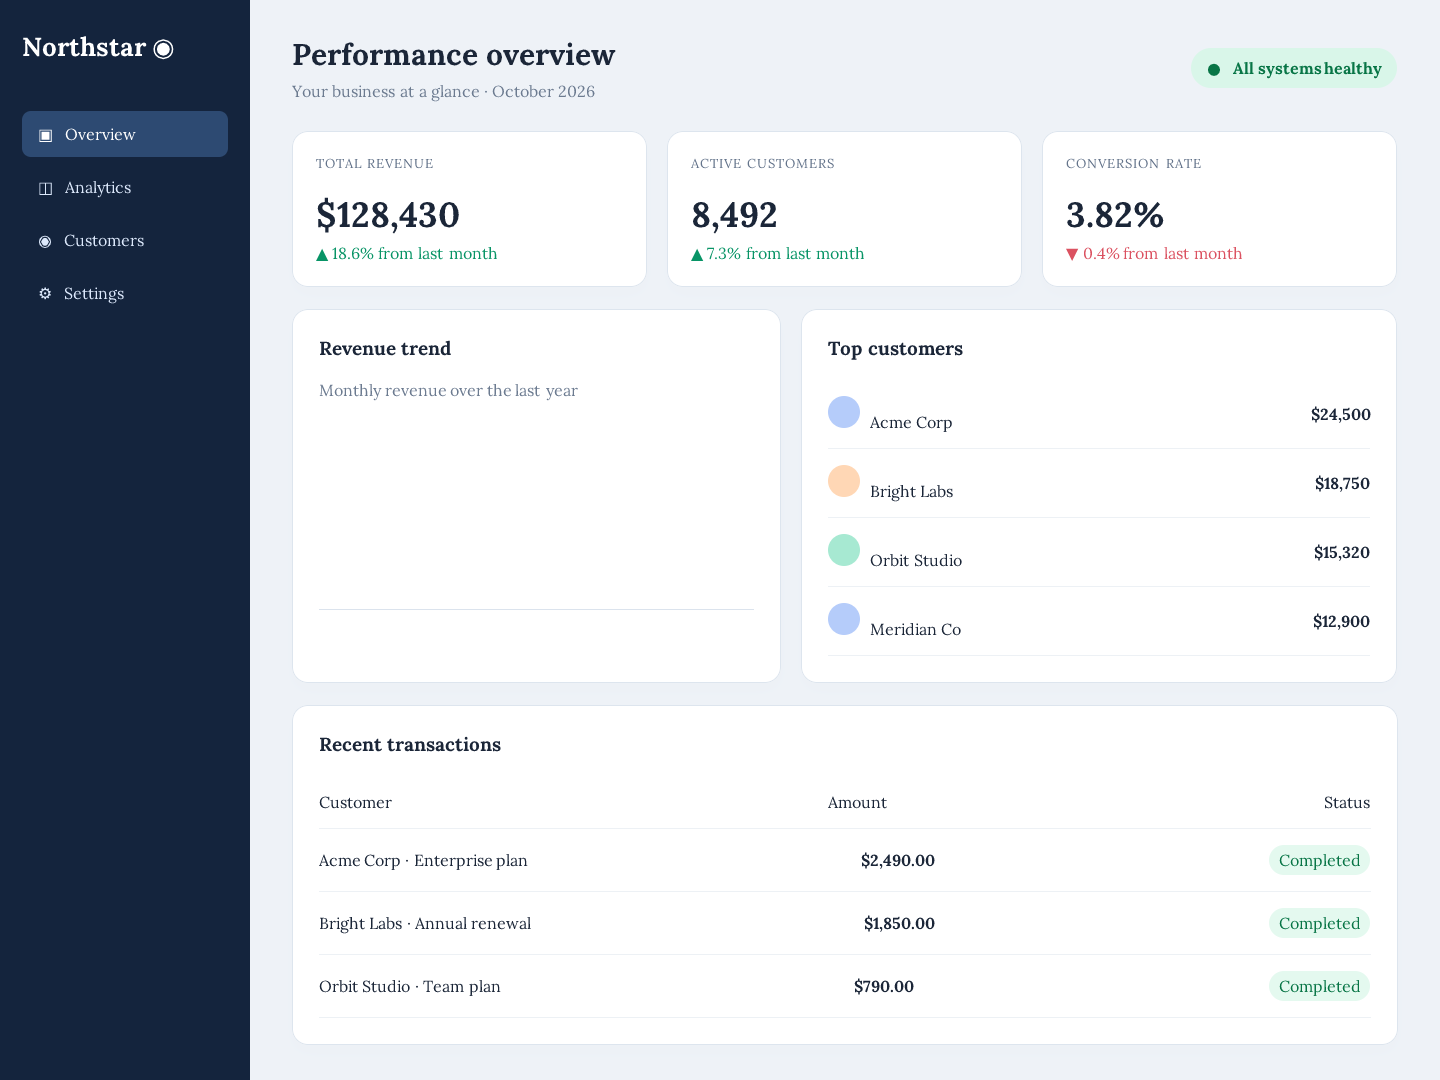
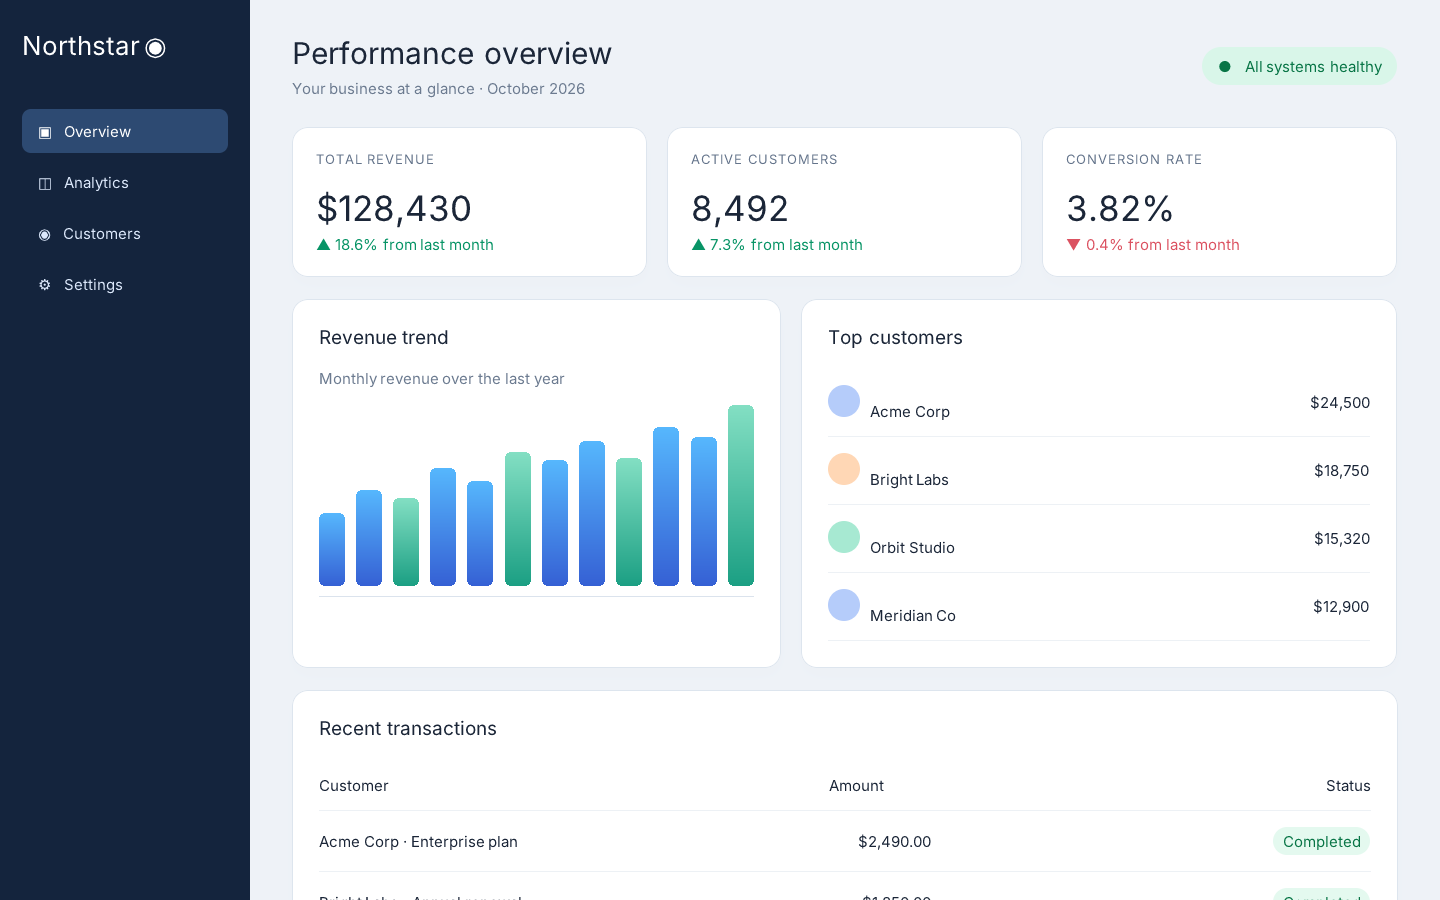
test: compare renderer POC with Chrome viewport

diff --git a/tools/renderer-poc/fixture.html b/tools/renderer-poc/fixture.html
@@ -4,38 +4,162 @@
     <meta charset="utf-8" />
     <title>Renderer POC dashboard</title>
     <style>
-      * { box-sizing: border-box; }
-      body { margin: 0; background: #eef2f7; color: #1b2638; font: 15px Arial, sans-serif; }
-      .shell { display: grid; grid-template-columns: 250px minmax(0, 1fr); min-height: 100vh; }
-      aside { background: #14243d; color: #dce8fb; padding: 30px 22px; }
-      .brand { color: white; font-size: 26px; font-weight: 700; margin-bottom: 48px; }
-      .nav { padding: 13px 16px; margin: 7px 0; border-radius: 9px; }
-      .nav.active { background: #2d4a72; color: #fff; }
-      main { padding: 35px 42px; }
-      header { display: flex; justify-content: space-between; align-items: center; margin-bottom: 30px; }
-      h1 { margin: 0 0 8px; font-size: 30px; }
-      .muted { color: #6c7b90; }
-      .badge { border-radius: 999px; background: #d9f6e9; color: #087546; padding: 10px 16px; font-weight: 700; }
-      .cards { display: grid; grid-template-columns: repeat(3, minmax(0, 1fr)); gap: 20px; }
-      .card, .panel { background: white; border: 1px solid #dde5ee; border-radius: 16px; box-shadow: 0 8px 24px #1b355314; }
-      .card { padding: 23px; min-height: 155px; }
-      .label { color: #64748b; font-size: 13px; text-transform: uppercase; letter-spacing: 1px; }
-      .number { margin: 20px 0 6px; font-size: 35px; font-weight: 700; }
-      .positive { color: #089466; }
-      .negative { color: #db5261; }
-      .columns { display: grid; grid-template-columns: minmax(0, 1.5fr) minmax(270px, 1fr); gap: 20px; margin-top: 22px; }
-      .panel { padding: 26px; }
-      h2 { margin: 0 0 20px; font-size: 19px; }
-      .chart { height: 210px; display: flex; align-items: end; gap: 11px; padding: 18px 0 0; border-bottom: 1px solid #dbe3ed; }
-      .bar { flex: 1; border-radius: 6px 6px 0 0; background: linear-gradient(180deg, #56b7fd, #3560d4); }
-      .bar:nth-child(3n) { background: linear-gradient(180deg, #83dfc3, #1b9f83); }
-      .row { display: flex; align-items: center; justify-content: space-between; border-bottom: 1px solid #edf1f5; padding: 16px 0; }
-      .avatar { display: inline-block; width: 32px; height: 32px; border-radius: 50%; background: #b5ccfa; margin-right: 10px; vertical-align: middle; }
-      .avatar.orange { background: #ffd7b5; }
-      .avatar.green { background: #a7e9d2; }
-      .table { margin-top: 22px; }
-      .table .row:first-child { color: #697b92; font-size: 12px; text-transform: uppercase; }
-      .pill { padding: 5px 10px; border-radius: 99px; background: #e4f9ef; color: #087546; }
+      * {
+        box-sizing: border-box;
+      }
+      body {
+        margin: 0;
+        background: #eef2f7;
+        color: #1b2638;
+        font-size: 15px;
+        font-family: Arial, sans-serif;
+      }
+      .shell {
+        display: grid;
+        grid-template-columns: 250px minmax(0, 1fr);
+        min-height: 100vh;
+      }
+      aside {
+        background: #14243d;
+        color: #dce8fb;
+        padding: 30px 22px;
+      }
+      .brand {
+        color: white;
+        font-size: 26px;
+        font-weight: 700;
+        margin-bottom: 48px;
+      }
+      .nav {
+        padding: 13px 16px;
+        margin: 7px 0;
+        border-radius: 9px;
+      }
+      .nav.active {
+        background: #2d4a72;
+        color: #fff;
+      }
+      main {
+        padding: 35px 42px;
+      }
+      header {
+        display: flex;
+        justify-content: space-between;
+        align-items: center;
+        margin-bottom: 30px;
+      }
+      h1 {
+        margin: 0 0 8px;
+        font-size: 30px;
+      }
+      .muted {
+        color: #6c7b90;
+      }
+      .badge {
+        border-radius: 999px;
+        background: #d9f6e9;
+        color: #087546;
+        padding: 10px 16px;
+        font-weight: 700;
+      }
+      .cards {
+        display: grid;
+        grid-template-columns: repeat(3, minmax(0, 1fr));
+        gap: 20px;
+      }
+      .card,
+      .panel {
+        background: white;
+        border: 1px solid #dde5ee;
+        border-radius: 16px;
+        box-shadow: 0 8px 24px #1b355314;
+      }
+      .card {
+        padding: 23px;
+        min-height: 155px;
+      }
+      .label {
+        color: #64748b;
+        font-size: 13px;
+        text-transform: uppercase;
+        letter-spacing: 1px;
+      }
+      .number {
+        margin: 20px 0 6px;
+        font-size: 35px;
+        font-weight: 700;
+      }
+      .positive {
+        color: #089466;
+      }
+      .negative {
+        color: #db5261;
+      }
+      .columns {
+        display: grid;
+        grid-template-columns: minmax(0, 1.5fr) minmax(270px, 1fr);
+        gap: 20px;
+        margin-top: 22px;
+      }
+      .panel {
+        padding: 26px;
+      }
+      h2 {
+        margin: 0 0 20px;
+        font-size: 19px;
+      }
+      .chart {
+        height: 210px;
+        display: flex;
+        align-items: end;
+        gap: 11px;
+        padding: 18px 0 0;
+        border-bottom: 1px solid #dbe3ed;
+      }
+      .bar {
+        flex: 1;
+        border-radius: 6px 6px 0 0;
+        background: linear-gradient(180deg, #56b7fd, #3560d4);
+      }
+      .bar:nth-child(3n) {
+        background: linear-gradient(180deg, #83dfc3, #1b9f83);
+      }
+      .row {
+        display: flex;
+        align-items: center;
+        justify-content: space-between;
+        border-bottom: 1px solid #edf1f5;
+        padding: 16px 0;
+      }
+      .avatar {
+        display: inline-block;
+        width: 32px;
+        height: 32px;
+        border-radius: 50%;
+        background: #b5ccfa;
+        margin-right: 10px;
+        vertical-align: middle;
+      }
+      .avatar.orange {
+        background: #ffd7b5;
+      }
+      .avatar.green {
+        background: #a7e9d2;
+      }
+      .table {
+        margin-top: 22px;
+      }
+      .table .row:first-child {
+        color: #697b92;
+        font-size: 12px;
+        text-transform: uppercase;
+      }
+      .pill {
+        padding: 5px 10px;
+        border-radius: 99px;
+        background: #e4f9ef;
+        color: #087546;
+      }
     </style>
   </head>
   <body>
@@ -49,30 +173,79 @@
       </aside>
       <main>
         <header>
-          <div><h1>Performance overview</h1><div class="muted">Your business at a glance · October 2026</div></div>
+          <div>
+            <h1>Performance overview</h1>
+            <div class="muted">Your business at a glance · October 2026</div>
+          </div>
           <div class="badge">● &nbsp; All systems healthy</div>
         </header>
         <section class="cards">
-          <div class="card"><div class="label">Total revenue</div><div class="number">$128,430</div><div class="positive">▲ 18.6% from last month</div></div>
-          <div class="card"><div class="label">Active customers</div><div class="number">8,492</div><div class="positive">▲ 7.3% from last month</div></div>
-          <div class="card"><div class="label">Conversion rate</div><div class="number">3.82%</div><div class="negative">▼ 0.4% from last month</div></div>
+          <div class="card">
+            <div class="label">Total revenue</div>
+            <div class="number">$128,430</div>
+            <div class="positive">▲ 18.6% from last month</div>
+          </div>
+          <div class="card">
+            <div class="label">Active customers</div>
+            <div class="number">8,492</div>
+            <div class="positive">▲ 7.3% from last month</div>
+          </div>
+          <div class="card">
+            <div class="label">Conversion rate</div>
+            <div class="number">3.82%</div>
+            <div class="negative">▼ 0.4% from last month</div>
+          </div>
         </section>
         <section class="columns">
-          <div class="panel"><h2>Revenue trend</h2><div class="muted">Monthly revenue over the last year</div>
-            <div class="chart"><div class="bar" style="height:38%"></div><div class="bar" style="height:50%"></div><div class="bar" style="height:46%"></div><div class="bar" style="height:62%"></div><div class="bar" style="height:55%"></div><div class="bar" style="height:70%"></div><div class="bar" style="height:66%"></div><div class="bar" style="height:76%"></div><div class="bar" style="height:67%"></div><div class="bar" style="height:83%"></div><div class="bar" style="height:78%"></div><div class="bar" style="height:95%"></div></div>
+          <div class="panel">
+            <h2>Revenue trend</h2>
+            <div class="muted">Monthly revenue over the last year</div>
+            <div class="chart">
+              <div class="bar" style="height: 73px"></div>
+              <div class="bar" style="height: 96px"></div>
+              <div class="bar" style="height: 88px"></div>
+              <div class="bar" style="height: 118px"></div>
+              <div class="bar" style="height: 105px"></div>
+              <div class="bar" style="height: 134px"></div>
+              <div class="bar" style="height: 126px"></div>
+              <div class="bar" style="height: 145px"></div>
+              <div class="bar" style="height: 128px"></div>
+              <div class="bar" style="height: 159px"></div>
+              <div class="bar" style="height: 149px"></div>
+              <div class="bar" style="height: 181px"></div>
+            </div>
           </div>
-          <div class="panel"><h2>Top customers</h2>
-            <div class="row"><span><i class="avatar"></i>Acme Corp</span><strong>$24,500</strong></div>
-            <div class="row"><span><i class="avatar orange"></i>Bright Labs</span><strong>$18,750</strong></div>
-            <div class="row"><span><i class="avatar green"></i>Orbit Studio</span><strong>$15,320</strong></div>
-            <div class="row"><span><i class="avatar"></i>Meridian Co</span><strong>$12,900</strong></div>
+          <div class="panel">
+            <h2>Top customers</h2>
+            <div class="row">
+              <span><i class="avatar"></i>Acme Corp</span><strong>$24,500</strong>
+            </div>
+            <div class="row">
+              <span><i class="avatar orange"></i>Bright Labs</span><strong>$18,750</strong>
+            </div>
+            <div class="row">
+              <span><i class="avatar green"></i>Orbit Studio</span><strong>$15,320</strong>
+            </div>
+            <div class="row">
+              <span><i class="avatar"></i>Meridian Co</span><strong>$12,900</strong>
+            </div>
           </div>
         </section>
-        <section class="panel table"><h2>Recent transactions</h2>
+        <section class="panel table">
+          <h2>Recent transactions</h2>
           <div class="row"><span>Customer</span><span>Amount</span><span>Status</span></div>
-          <div class="row"><span>Acme Corp · Enterprise plan</span><strong>$2,490.00</strong><span class="pill">Completed</span></div>
-          <div class="row"><span>Bright Labs · Annual renewal</span><strong>$1,850.00</strong><span class="pill">Completed</span></div>
-          <div class="row"><span>Orbit Studio · Team plan</span><strong>$790.00</strong><span class="pill">Completed</span></div>
+          <div class="row">
+            <span>Acme Corp · Enterprise plan</span><strong>$2,490.00</strong
+            ><span class="pill">Completed</span>
+          </div>
+          <div class="row">
+            <span>Bright Labs · Annual renewal</span><strong>$1,850.00</strong
+            ><span class="pill">Completed</span>
+          </div>
+          <div class="row">
+            <span>Orbit Studio · Team plan</span><strong>$790.00</strong
+            ><span class="pill">Completed</span>
+          </div>
         </section>
       </main>
     </div>

diff --git a/tools/renderer-poc/main.go b/tools/renderer-poc/main.go
@@ -27,6 +27,9 @@ func main() {
 	if err != nil {
 		panic(err)
 	}
+	if result.Bounds().Dy() > *height {
+		result = result.SubImage(image.Rect(0, 0, result.Bounds().Dx(), *height)).(*image.RGBA)
+	}
 	png, err := engine.EncodePNG(result)
 	if err != nil {
 		panic(err)

diff --git a/tools/renderer-poc/README.md b/tools/renderer-poc/README.md
@@ -12,9 +12,13 @@ go run . -input fixture.html -output screenshot.png -width 1440 -height 900
 ```
 
 The fixture exercises Grid, Flexbox, text, gradients, shadows, rounded corners,
-percentage-height chart bars and a table-like transaction list. On the tested
-engine commit, the page renders to 1440 x 1080, but the intended sans-serif font
-falls back to serif and the percentage-height bars are absent. The engine grows
-the image to the full document height, so a viewport screenshot would need a
-crop. These are concrete compatibility and integration limits, not Chrome 152
-reference measurements.
+chart bars and a table-like transaction list. The engine does not interpret the
+fixture's original `font` shorthand or percentage-height bars inside the flex
+chart. This experiment expands the font declaration and uses explicit bar heights
+as input workarounds. It also crops the engine's full-document output to the
+requested viewport. These changes do not fix the engine's CSS implementation.
+
+The screenshot is compared locally against frozen Chrome 152 in explicitly
+headless mode. The engine still lays out the lower two-column Grid differently,
+uses a different font face, and paints text with different metrics. Headless
+Chrome is a visual diagnostic here, not Mimic's authoritative headful oracle.
